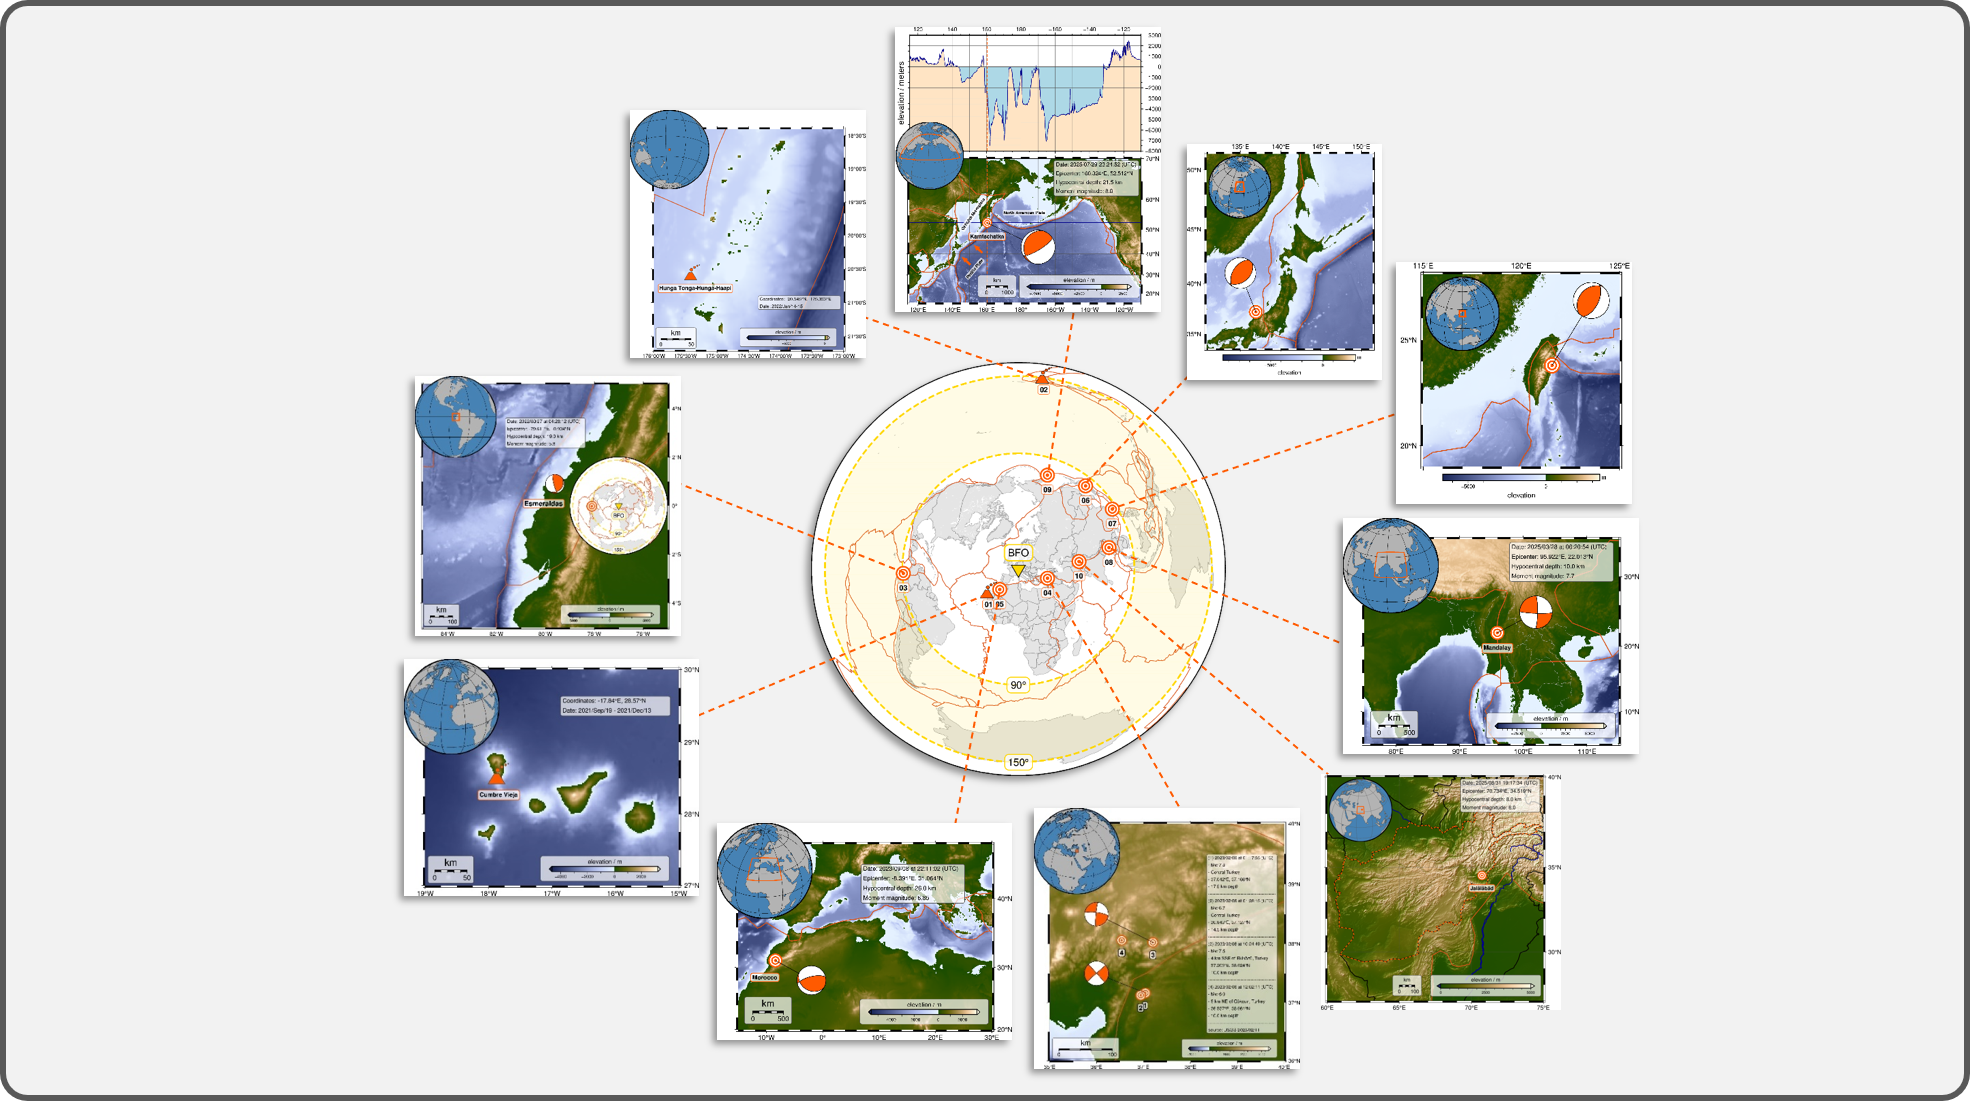
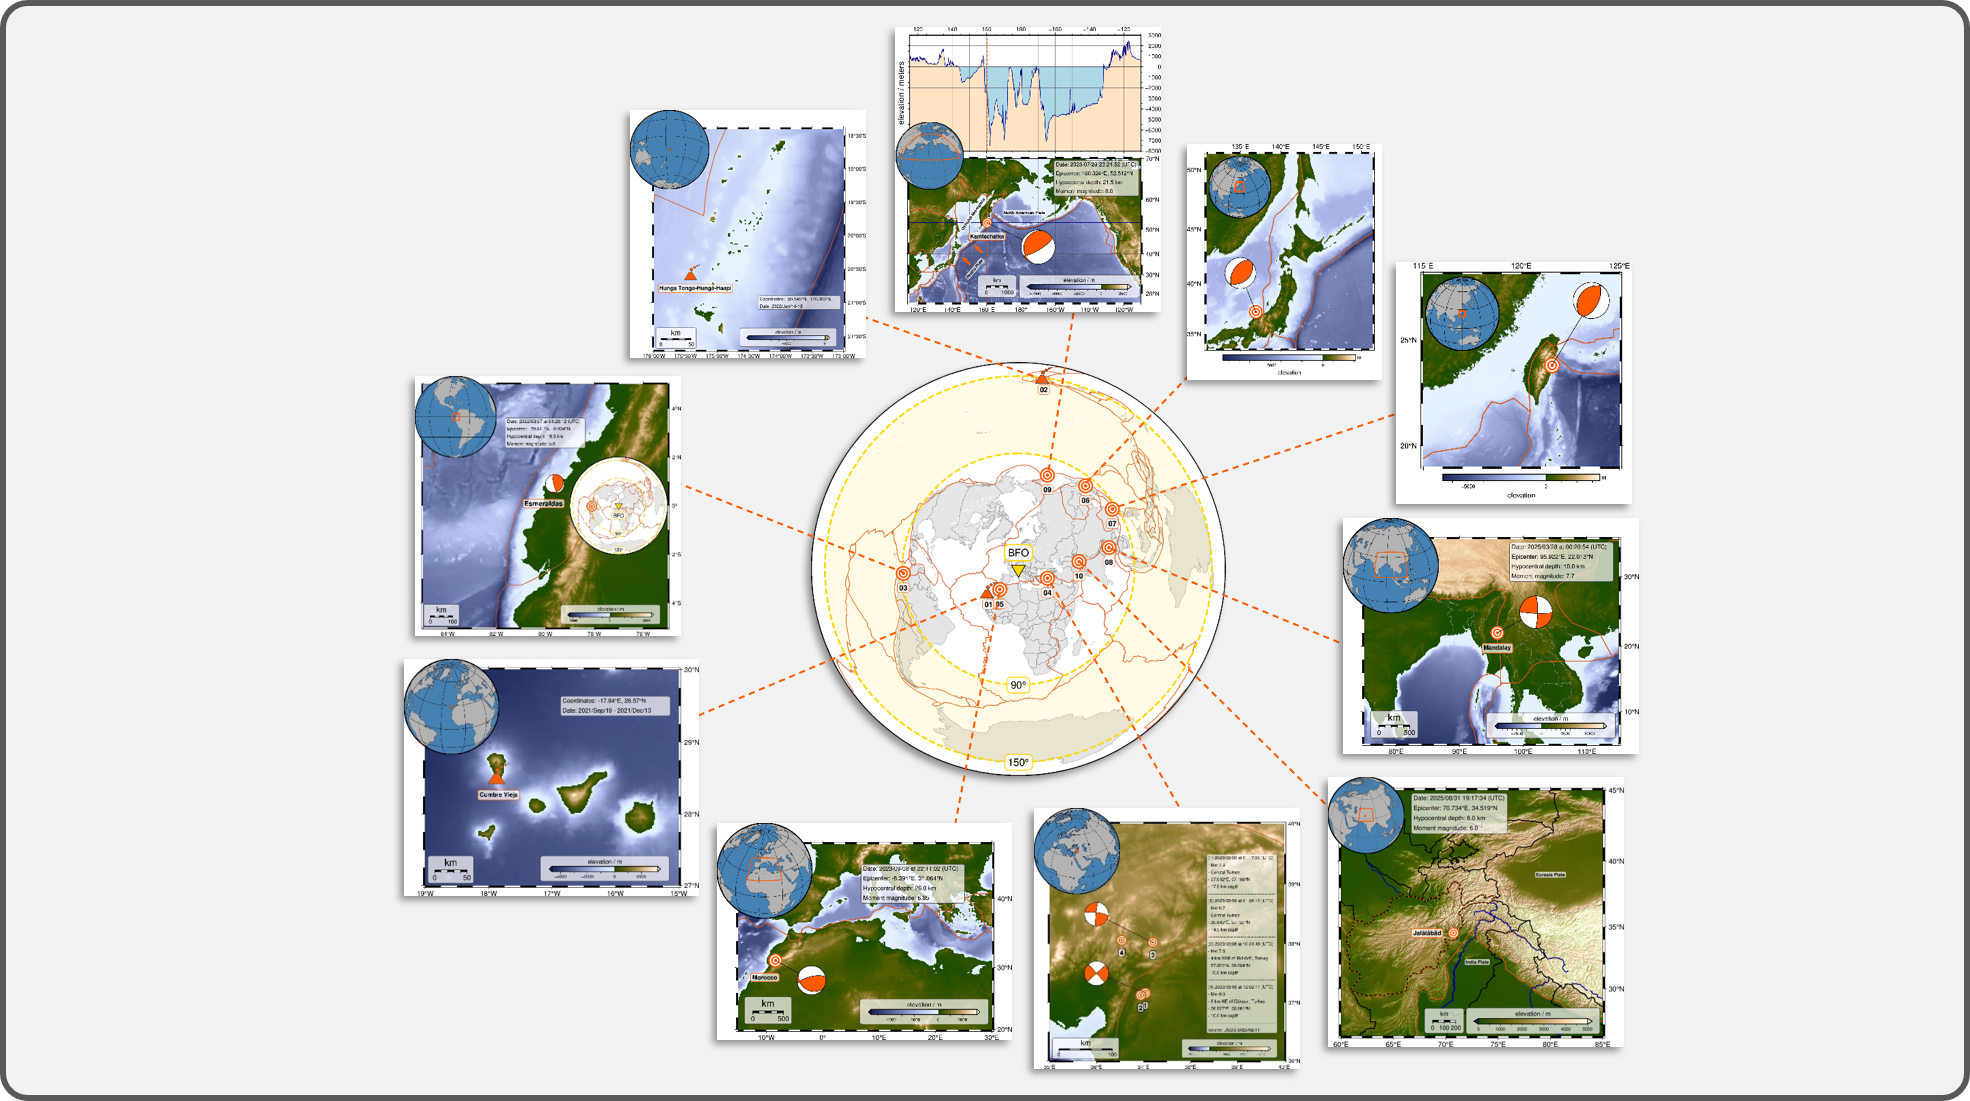
Update overview image

Changed region(s): [[0.6503, 0.6794, 0.836, 0.9573]]

diff --git a/004_earthquakes_eruptions/10_afghanistan_earthquake.py b/004_earthquakes_eruptions/10_afghanistan_earthquake.py
@@ -37,15 +37,10 @@ path_out = "02_out_figs"
 
 # -----------------------------------------------------------------------------
 # Define region and projections
-lon_min = 65  # degrees East
-lon_max = 75
-lat_min = 30  # degrees North
-lat_max = 37
-
 lon_min = 60  # degrees East
-lon_max = 75
-lat_min = 27  # degrees North
-lat_max = 40
+lon_max = 85
+lat_min = 26  # degrees North
+lat_max = 45
 
 region = [lon_min, lon_max, lat_min, lat_max]
 center_str = f"{(lon_max + lon_min) / 2}/{(lat_max + lat_min) / 2}"
@@ -82,12 +77,12 @@ color_profil = "darkblue"
 
 # -----------------------------------------------------------------------------
 # Stuff for scale, legends, colorbars, and insets
-basemap_scale = f"JLB+jLB+w100+c{center_str}+f+lkm+at+o4c/0.7c"
+basemap_scale = f"JLB+jLB+w200+c{center_str}+f+lkm+at+o4.2c/0.55c"
 
-pos_study_inset = "jTL+w3.5c+o0.1c"
+pos_cb_grid = "JRB+jRB+w5c/0.25c+h+ml+o0.7c/0.55c+e0.2c"
+frame_cb_grid = "xa1000f500+lelevation / m"
 
-pos_cb_grid = "JRB+jRB+w5c/0.25c+h+ml+o0.7c+e0.2c"
-frame_cb_grid = "xa2500f500+lelevation / m"
+pos_study_inset = "jTL+w3.5c+o-0.6c"
 
 box_standard = "+gwhite@30+p0.5p,gray30+r0.1c"
 
@@ -112,10 +107,10 @@ fig.plot(data=f"{path_in}/{file_pb}", pen=f"1p,{color_pb}")
 
 # Plot national boundaries and rivers
 fig.coast(borders=f"1/1p,{color_nb}", rivers=f"1/1p,{color_river}")
-fig.coast(dcw=f"AF+p1p,{color_hl},4_2")
+fig.coast(dcw=f"AF+p1p,{color_hl},2_4")
 
 # Add frame
-fig.basemap(frame=["wSnE", "afg"])
+fig.basemap(frame=["af", "wSnE"])
 
 # -----------------------------------------------------------------------------
 # Add colorbar for elevation
@@ -137,24 +132,13 @@ fig.plot(
     pen=color_hl,
 )
 
-# Beachball
-# pen_epi = "0.5p,black"
-# fig.meca(
-#     spec=f"{path_in}/meca_afghanistan.txt",
-#     convention="aki",
-#     scale="1c",
-#     compressionfill=color_hl,  # fill color of compressive quadrants
-#     offset=pen_epi,
-#     outline=pen_epi,
-# )
-
 # Label
 fig.text(
     x=lon_eq,
     y=lat_eq,
     text="Jalālābād",
     font="8p,Helvetica-Bold,black",
-    offset="0c/-0.7c",
+    offset="-1.2c/0c",
     fill="white@30",
     pen=f"0.8p,{color_hl}",
     clearance="0.1c/0.1c+tO",
@@ -171,24 +155,15 @@ fig.text(
     pen="0.5p,gray30",
 )
 
-# # Plate names
-# fig.text(
-#     x=[152, 153, 182],
-#     y=[55.5, 33, 56],
-#     text=["Okhotsk Microplate", "Pazific Plate", "North American Plate"],
-#     angle=[55, 50, 0],
-#     font="6p,Helvetica-Bold,black",
-#     fill="white@30",
-#     clearance="0.05c/0.05c+tO",
-# )
-
-# # Plate motion direction
-# fig.plot(
-#     data=[[150.5, 35, 137, 0.6], [157.5, 40.5, 137, 0.6]],
-#     style="v0.3c+e+h0.1+a45",
-#     pen=f"3p,{color_hl}",
-#     fill=color_hl,
-# )
+# Plate names
+fig.text(
+    x=[73, 80],
+    y=[32.2, 39],
+    text=["India Plate", "Eurasia Plate"],
+    font="6p,Helvetica-Bold,black",
+    fill="white@30",
+    clearance="0.05c/0.05c+tO",
+)
 
 # -----------------------------------------------------------------------------
 # Inset map of study region
@@ -222,6 +197,6 @@ with fig.inset(position=pos_study_inset):
 # -----------------------------------------------------------------------------
 # Show and save figure
 fig.show()
-for ext in ["png"]:  # , "pdf", "eps"]:
-    fig.savefig(fname=f"{path_out}/{fig_name}.{ext}", dpi=dpi_png)
+# for ext in ["png"]:  # , "pdf", "eps"]:
+#     fig.savefig(fname=f"{path_out}/{fig_name}.{ext}", dpi=dpi_png)
 print(fig_name)
